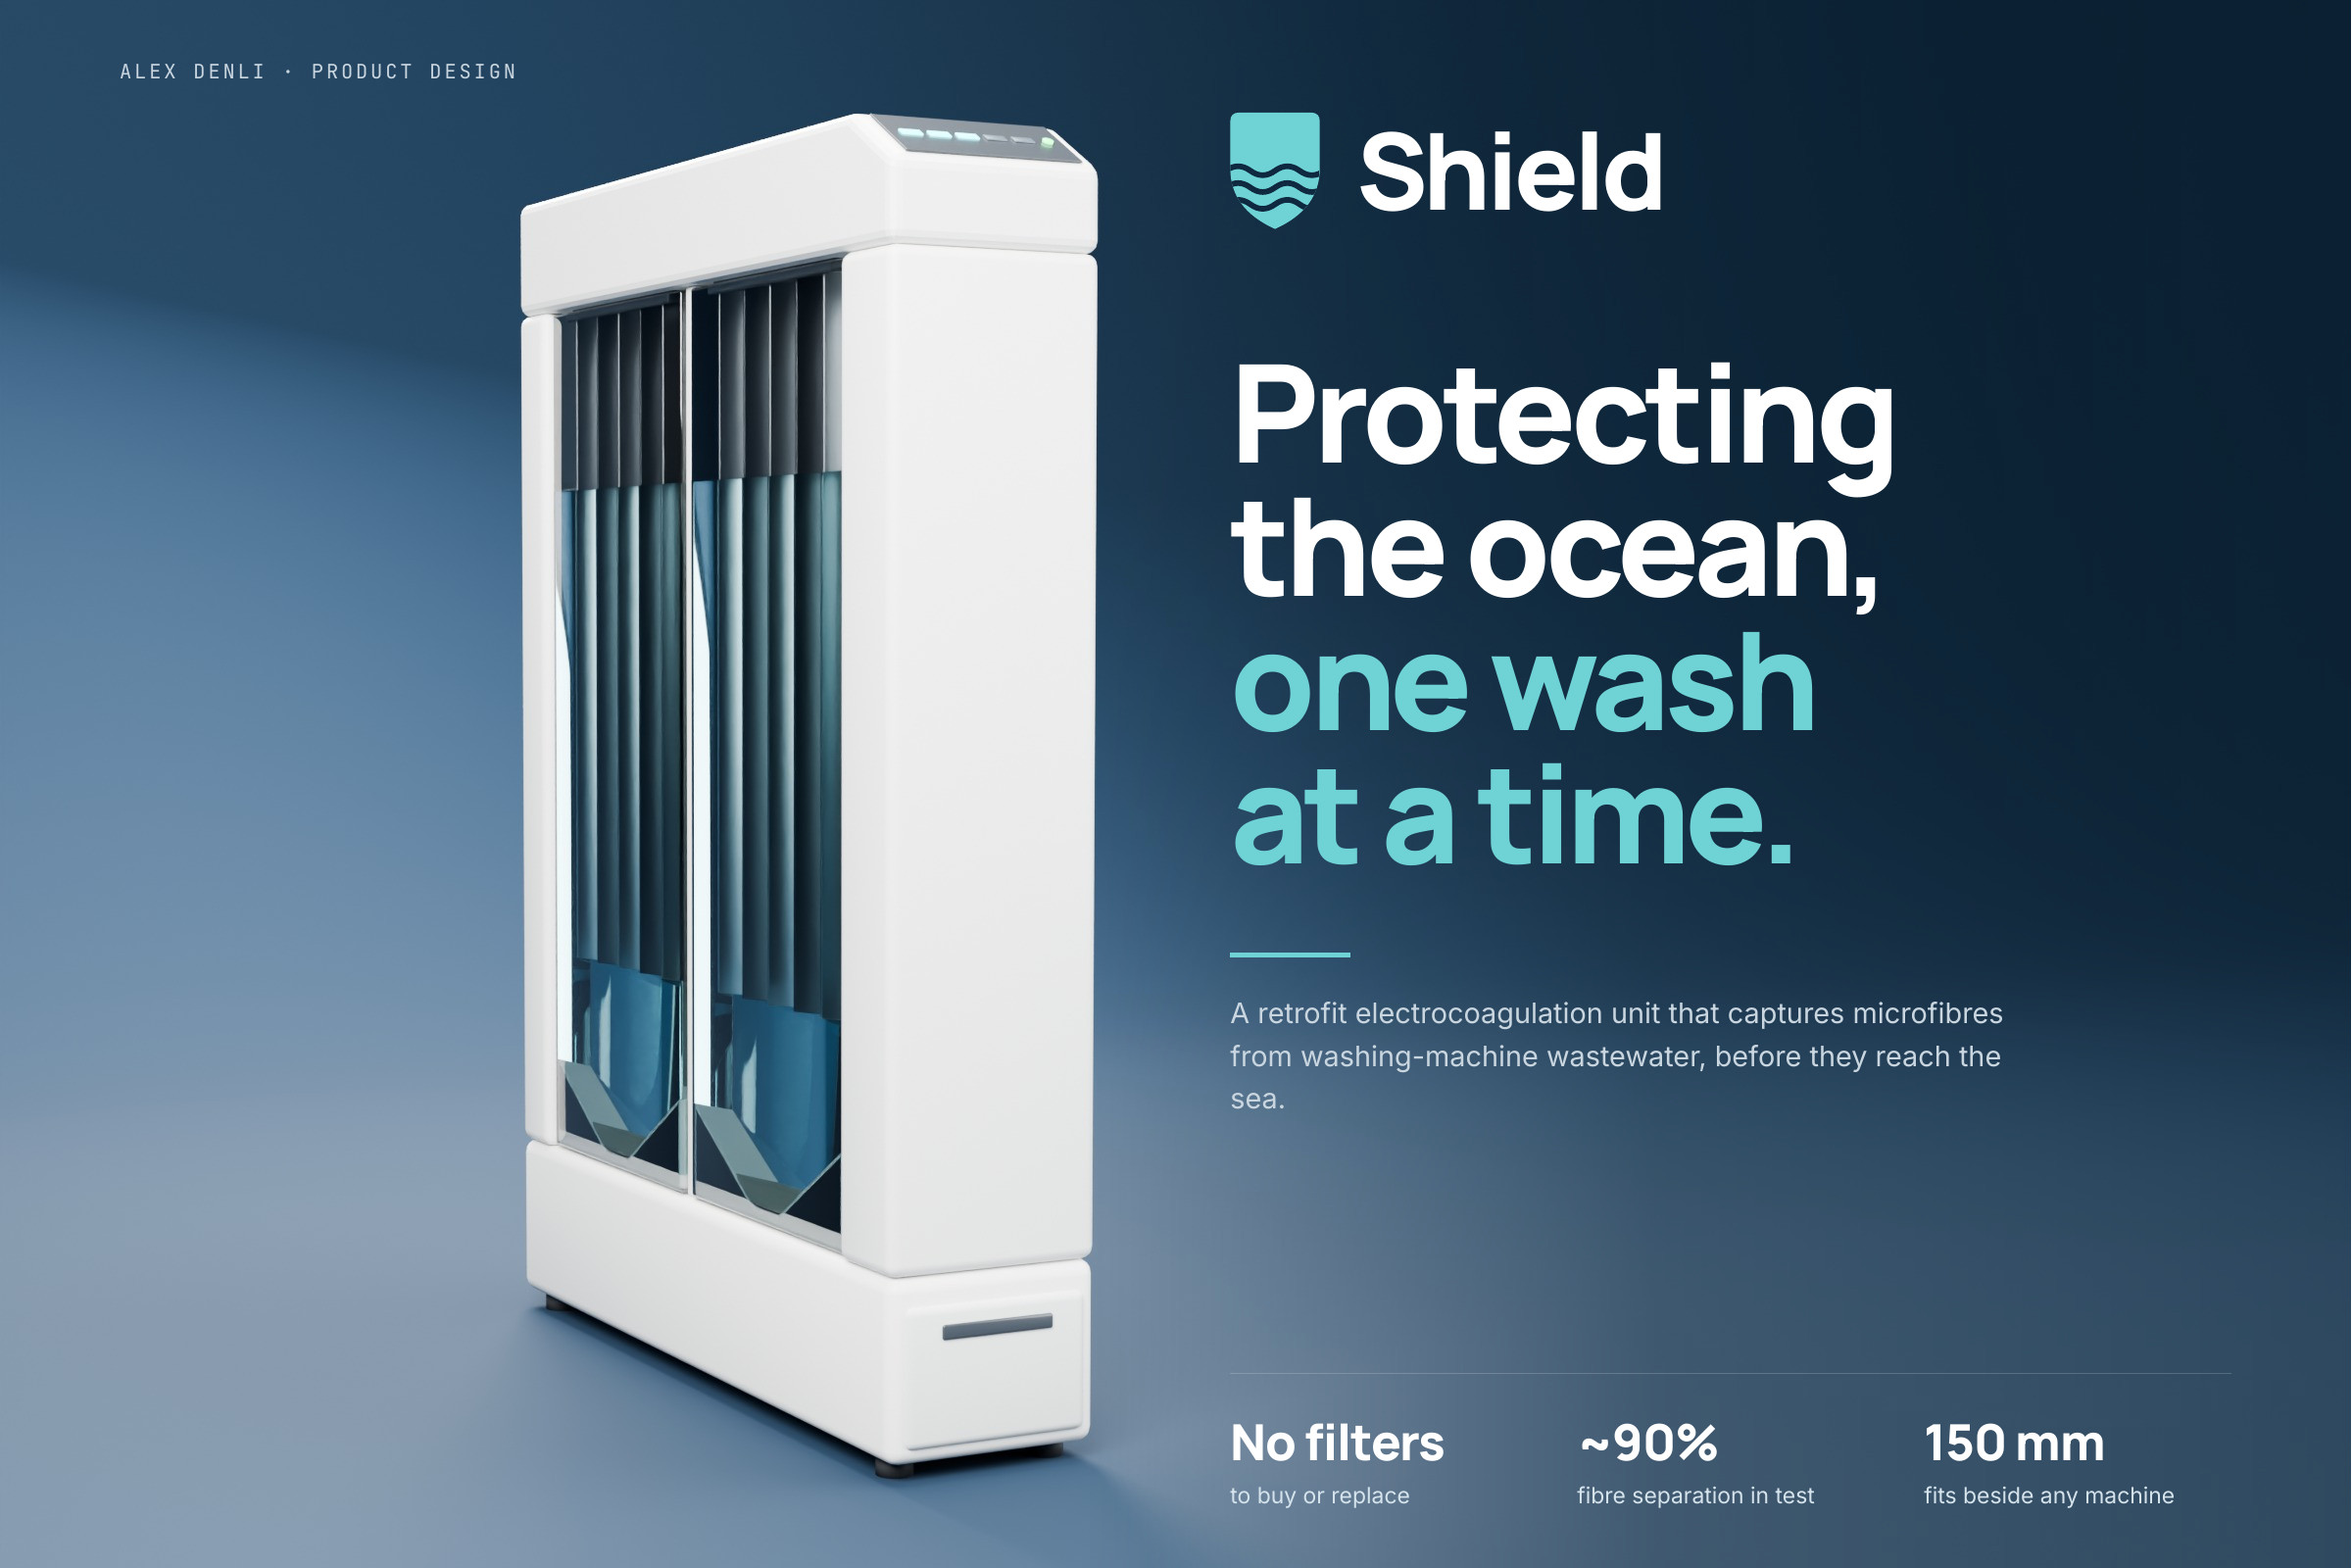
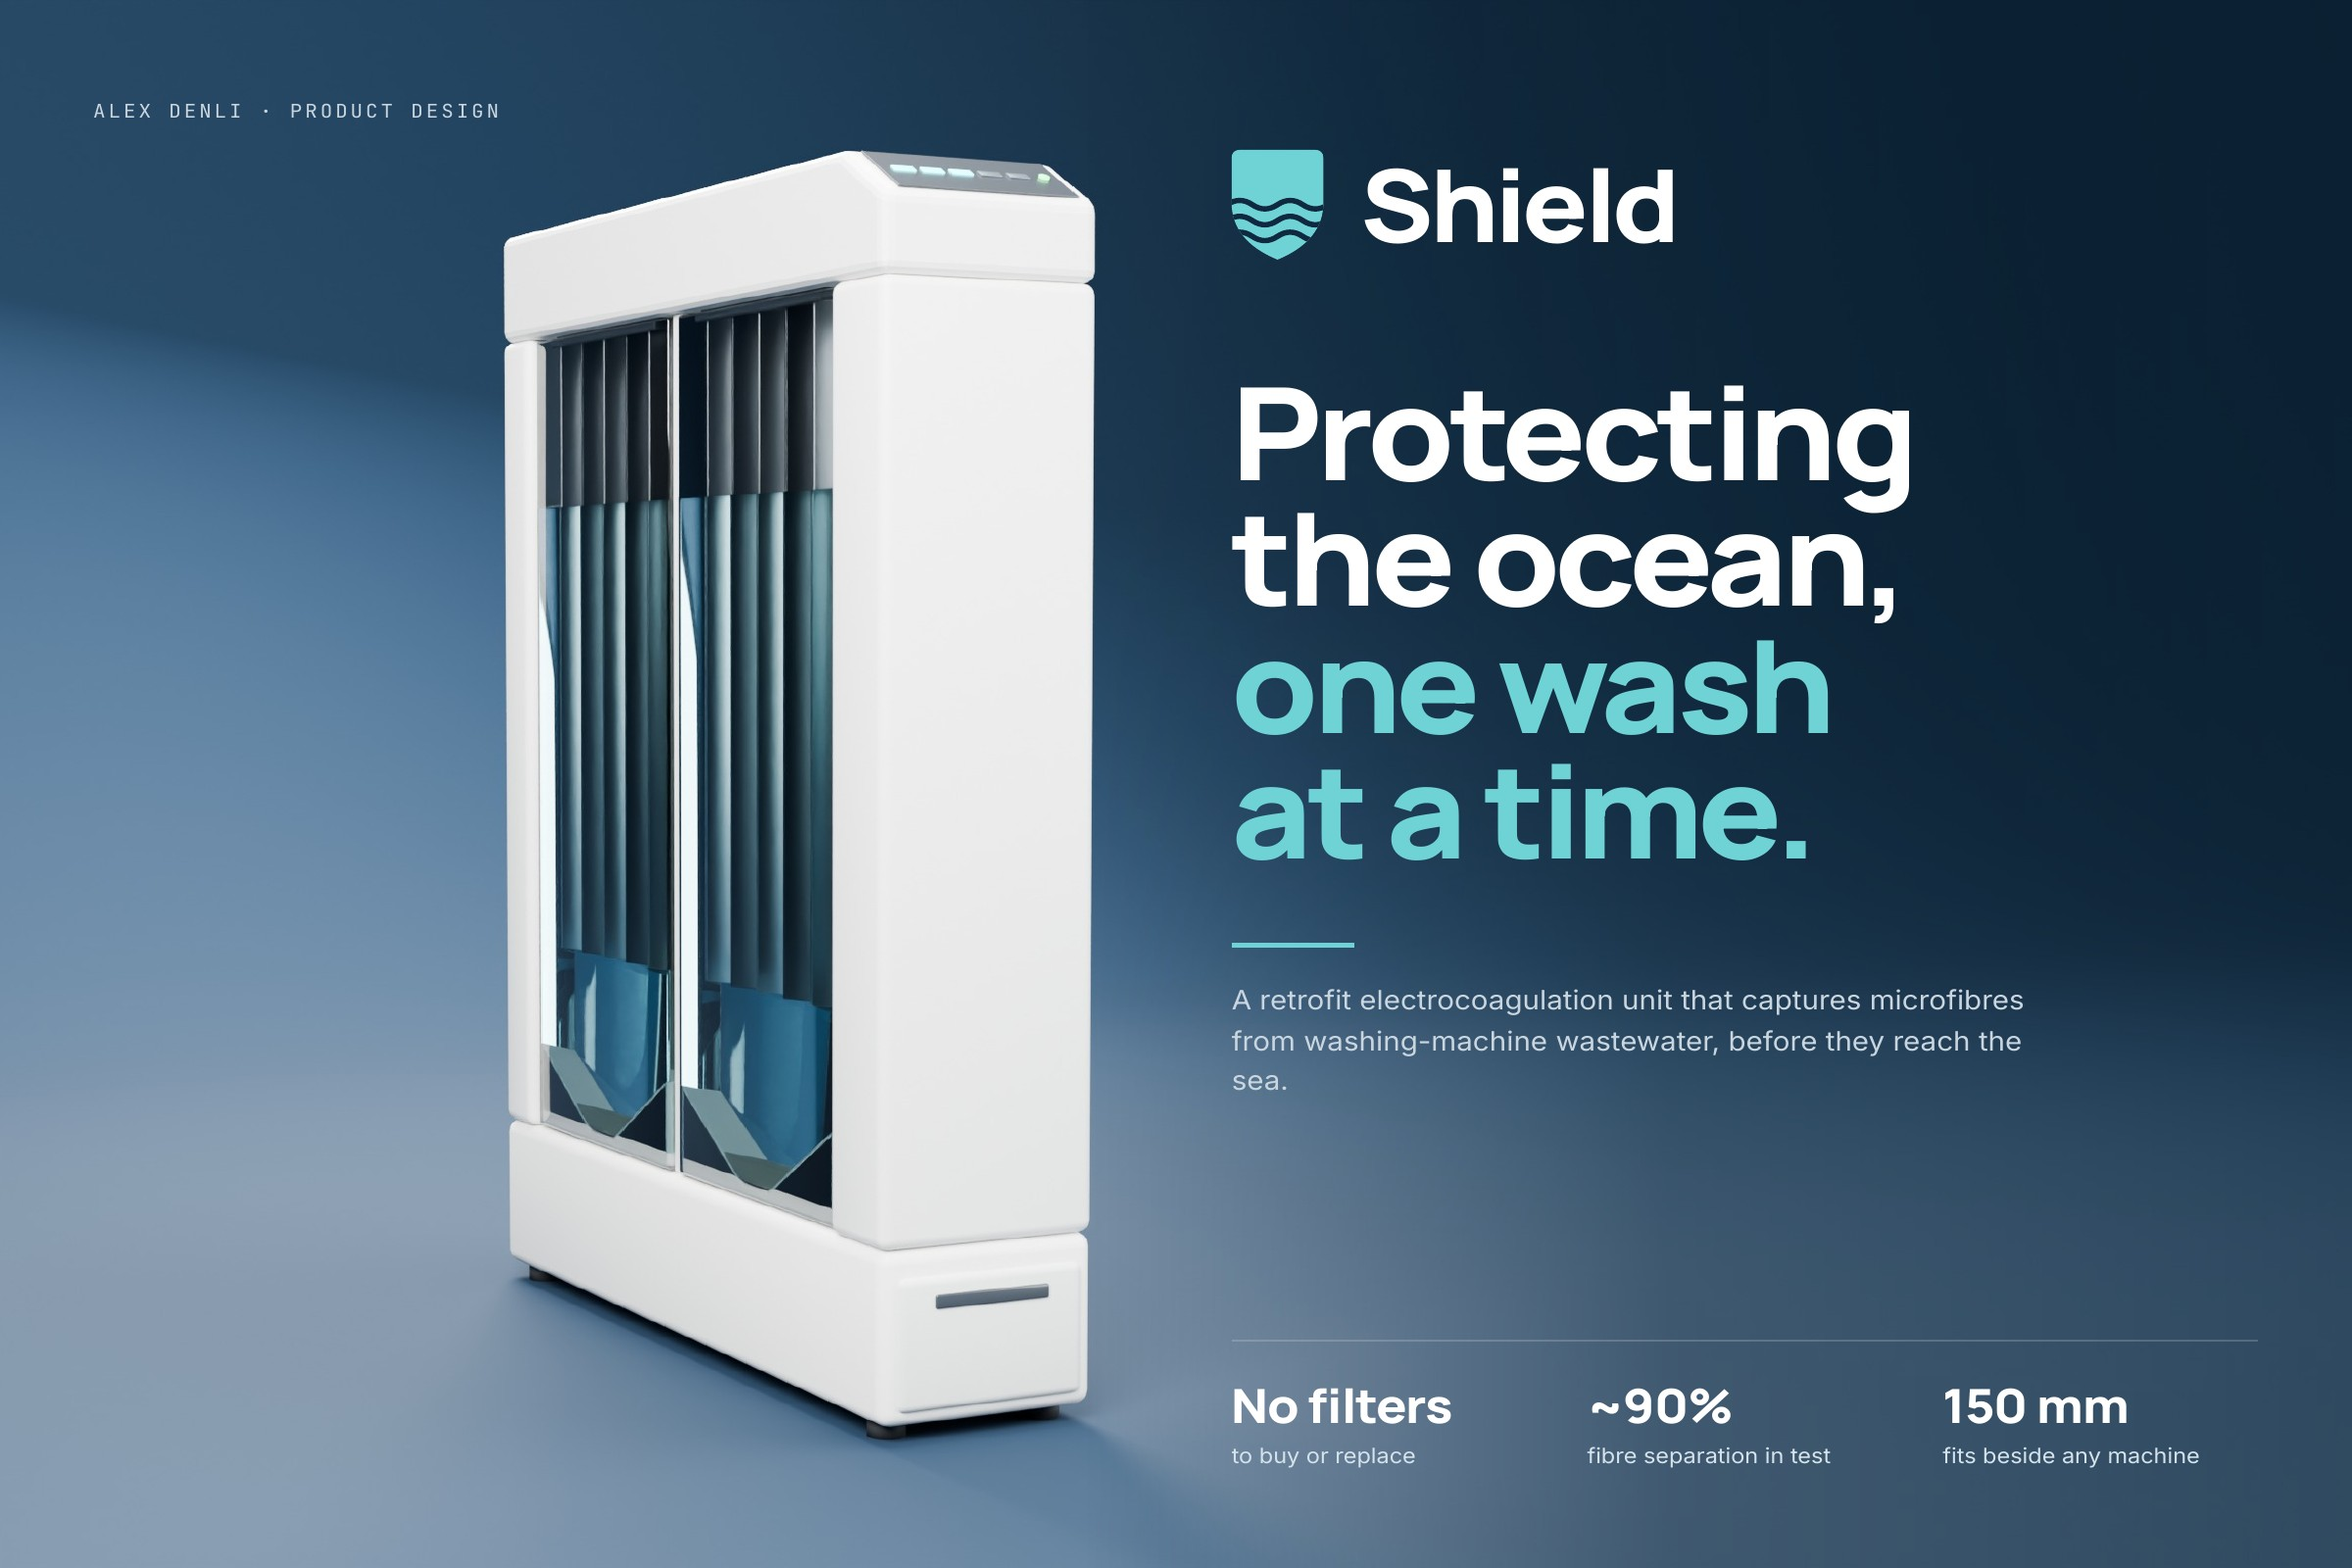
Shield: fit pinned sections to viewport height, relayout Why electrocoagulation
Claude-Session: https://claude.ai/code/session_016HT8M4ZHhrVr9NAe4Ea33j

diff --git a/css/shield.css b/css/shield.css
@@ -154,8 +154,9 @@
 .sh-note { color: #A8BCCB !important; font-size: 1rem !important; margin-top: .4rem; } .sh-warn { color: #FF8A6B !important; font-weight: 600; }
 
 /* ---------- compare ---------- */
-.sh-cg { display: grid; grid-template-columns: minmax(0, 1fr) minmax(0, 1.4fr) minmax(0, .82fr); gap: 1.2rem; align-items: start; }
-.sh-mapbox { position: relative; height: 56vh; margin-top: .6rem; }
+.sh-cg { display: grid; grid-template-columns: minmax(0, 1.55fr) minmax(0, 1fr); grid-template-areas: "mx map" "col col"; gap: 1.2rem; align-items: stretch; }
+.sh-cg > .sh-mx { grid-area: mx; } .sh-cg > .sh-map { grid-area: map; display: flex; flex-direction: column; } .sh-cg > .sh-col { grid-area: col; display: grid; grid-template-columns: minmax(0, 1fr) minmax(0, 1.4fr); gap: 1.2rem; }
+.sh-mapbox { position: relative; flex: 1; min-height: 440px; margin-top: .6rem; }
 .sh-mapbox .vx, .sh-mapbox .hx { position: absolute; background: #CBD4D6; } .sh-mapbox .vx { left: 50%; top: 0; bottom: 0; width: 1px; } .sh-mapbox .hx { top: 50%; left: 0; right: 0; height: 1px; }
 .sh-mapbox .ax { position: absolute; font-size: .875rem; color: #6C7B84; white-space: nowrap; }
 .sh-mapbox .ax.t { top: .2rem; left: 50%; transform: translateX(-50%); } .sh-mapbox .ax.b { bottom: .2rem; left: 50%; transform: translateX(-50%); } .sh-mapbox .ax.l { left: 0; top: 50%; transform: translateY(.4rem); } .sh-mapbox .ax.r { right: 0; top: 50%; transform: translateY(.4rem); }
@@ -165,9 +166,9 @@
 .sh-mapbox .spt b { margin-left: 1.3rem; font-size: .9375rem; white-space: nowrap; } .sh-mapbox .spt em { margin-left: 1.3rem; font-style: normal; font-size: .8125rem; color: var(--soft); white-space: nowrap; }
 .sh-mapbox .spt.me { transform: translate(-100%, -14px); align-items: flex-end; } .sh-mapbox .spt.me i { left: auto; right: 0; top: 0; width: 28px; height: 28px; background: var(--tl); border-color: #fff; box-shadow: 0 0 0 3px #BFE6E6; } .sh-mapbox .spt.me b, .sh-mapbox .spt.me em { margin: 0 2.4rem 0 0; color: var(--teal); }
 .sh-mapbox .spt.me b { margin-top: 2.2rem; }
-.sh-mx table { width: 100%; border-collapse: collapse; font-size: 1.1875rem; }
+.sh-mx table { width: 100%; border-collapse: collapse; font-size: 1.125rem; table-layout: auto; }
 .sh-mx th { text-align: left; font-size: .9375rem; color: var(--soft); font-weight: 600; padding: .4rem .6rem .8rem; border-bottom: 2px solid var(--ink); }
-.sh-mx td { padding: 1.3rem .6rem; border-bottom: 1px solid #DCE3E4; vertical-align: middle; } .sh-mx td:first-child { font-weight: 600; } .sh-mx td:last-child { color: var(--soft); font-size: 1.0625rem; line-height: 1.35; }
+.sh-mx td { padding: .95rem .6rem; border-bottom: 1px solid #DCE3E4; vertical-align: middle; } .sh-mx td:first-child { font-weight: 600; } .sh-mx td:last-child { color: var(--soft); font-size: 1.0625rem; line-height: 1.35; }
 .sh-mx tr.me td { background: #E9F6F6; } .sh-mx tr.me td:first-child { color: var(--teal); } .sh-mx tr.me td:last-child { color: var(--ink); font-weight: 600; }
 .sd { display: inline-flex; gap: 5px; } .sd i { width: 13px; height: 13px; border-radius: 50%; background: #D6DEE0; } .sd i.f { background: var(--tl); }
 .sh-ev { background: var(--navy); color: #fff; border-radius: 20px; padding: 1.5rem 1.7rem; } .sh-ev .sh-k { color: var(--aq); } .sh-ev b { display: block; font-size: clamp(4rem, 6vw, 6.4rem); line-height: 1; letter-spacing: -.045em; color: var(--aq); margin-bottom: .7rem; } .sh-ev span { font-size: 1.15rem; line-height: 1.45; color: #D2E1EC; }
@@ -267,8 +268,8 @@
 
 /* ---------- details: a horizontal walk ---------- */
 .sh-dt { background: linear-gradient(180deg, #0B1B2B, #102B43); }
-.sh-trk { display: flex; gap: 4vw; padding-left: 0; margin: 2.6vh calc(var(--pad) * -1) 0; padding: 0 8vw; width: max-content; transform: translateX(calc(var(--p) * -128vw)); will-change: transform; }
-.sh-trk figure { flex: 0 0 50vw; margin: 0; }
+.sh-trk { display: flex; gap: 4vw; padding-left: 0; margin: 2.6vh calc(var(--pad) * -1) 0; padding: 0 8vw; width: max-content; --fw: min(50vw, calc((100vh - 25rem) * 1.415)); transform: translateX(calc(var(--p) * (var(--fw) * 4 + 28vw - 100vw) * -1)); will-change: transform; }
+.sh-trk figure { flex: 0 0 var(--fw); margin: 0; }
 .sh-trk .im { border-radius: 24px; overflow: hidden; aspect-ratio: 1800 / 1272; background: #E9EEEF; } .sh-trk img { width: 100%; height: 100%; object-fit: cover; display: block; }
 .sh-trk figcaption { display: grid; grid-template-columns: auto 1fr; gap: .2rem 1.3rem; margin-top: 1.3rem; align-items: baseline; } .sh-trk i { font-style: normal; font-weight: 600; color: var(--aq); font-size: 1.1rem; grid-row: span 2; } .sh-trk b { font-size: 2.1rem; letter-spacing: -.03em; } .sh-trk span { font-size: 1.2rem; line-height: 1.45; color: #BCCFDD; max-width: 36em; }
 .sh-bar { position: absolute; left: var(--pad); right: var(--pad); bottom: 2.2vh; height: 2px; background: rgba(255, 255, 255, .15); } .sh-bar i { display: block; height: 100%; background: var(--aq); transform-origin: left; }
@@ -306,3 +307,6 @@
 .sh-bz .sh-wrap { padding-top: calc(var(--nav-h) + 2vh); padding-bottom: 2vh; }
 .sh-bz .sh-h { margin-bottom: 1.4vh; } .sh-bz .sh-h p { display: none; }
 .sh-cost .bar { height: 2.8rem; }
+.sh-mx td { padding: clamp(.8rem, 2.3vh, 1.6rem) .6rem; }
+.sh-cg .sh-op p { font-size: clamp(1.15rem, 1.55vw, 1.6rem); line-height: 1.45; }
+.sh-cg .sh-op { display: flex; flex-direction: column; justify-content: center; }

diff --git a/js/shield.js b/js/shield.js
@@ -362,6 +362,19 @@
       fix.classList.toggle("on", !!show); if (show) fix.lastElementChild.textContent = cur.dataset.sec;
     };
     let raf = 0;
+    const fit = () => {
+      $$(".sh-pin:not(.sh-dt) .sh-stage", root).forEach((st) => {
+        const kids = [...st.children]; kids.forEach((k) => (k.style.zoom = ""));
+        const cs = getComputedStyle(st), avail = st.clientHeight - parseFloat(cs.paddingBottom);
+        const need = Math.max(...[...st.querySelectorAll("*")].filter((e) => !e.closest("svg") || e.tagName === "svg").map((k) => k.getBoundingClientRect().bottom)) - st.getBoundingClientRect().top;
+        let z = Math.max(.5, Math.min(1, avail / need));
+        if (z < .995) { kids.forEach((k) => (k.style.zoom = z.toFixed(3)));
+          const n2 = Math.max(...[...st.querySelectorAll("*")].filter((e) => !e.closest("svg") || e.tagName === "svg").map((k) => k.getBoundingClientRect().bottom)) - st.getBoundingClientRect().top;
+          if (n2 > avail + 1) { z = Math.max(.5, z * avail / n2); kids.forEach((k) => (k.style.zoom = z.toFixed(3))); } }
+      });
+    };
+    fit(); addEventListener("resize", fit); off.push(() => removeEventListener("resize", fit));
+    if (document.fonts && document.fonts.ready) document.fonts.ready.then(fit);
     const tick = () => {
       raf = 0;
       if (!root.isConnected) { off.forEach((f) => f()); off = []; return; }
